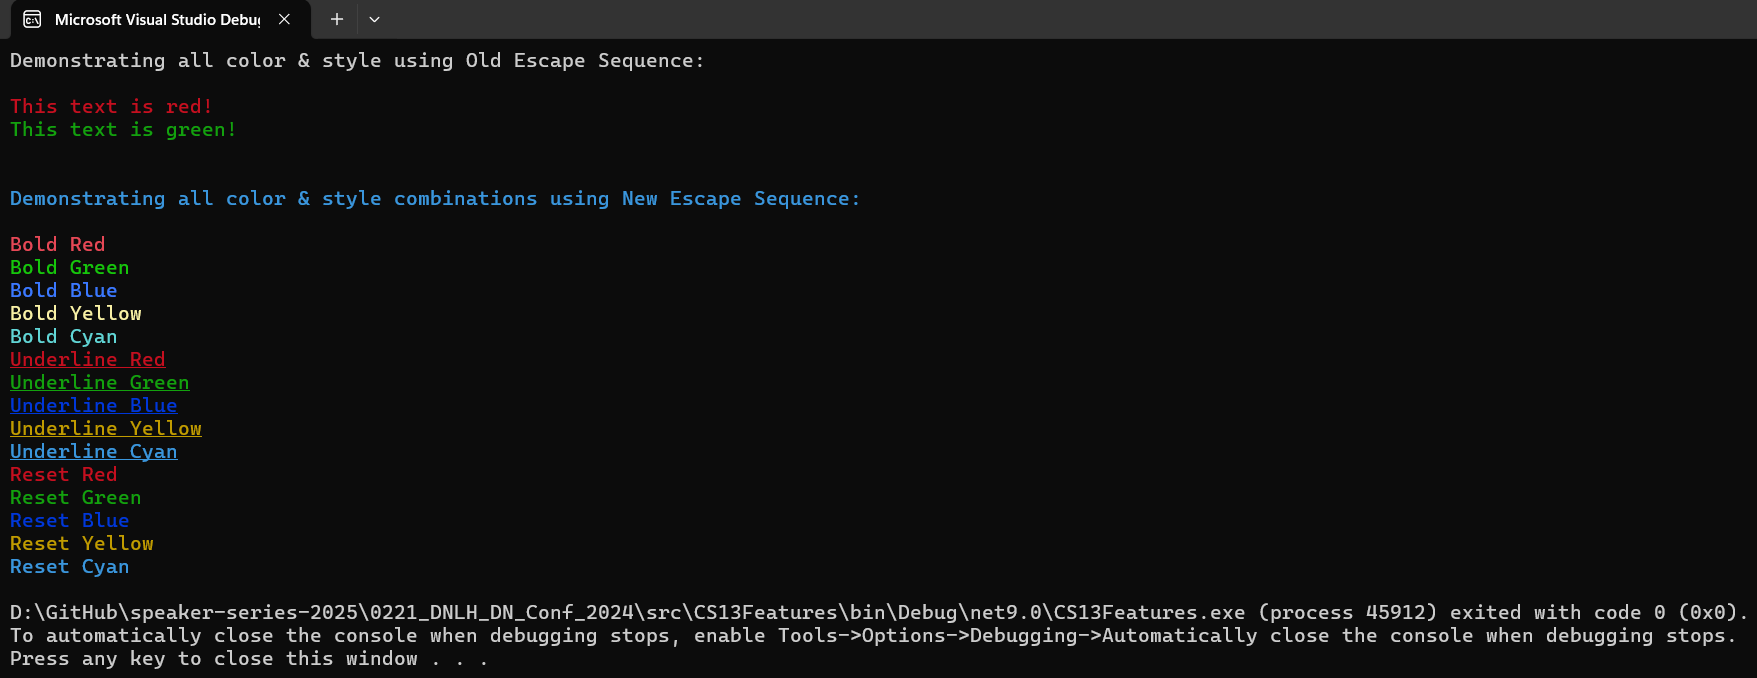
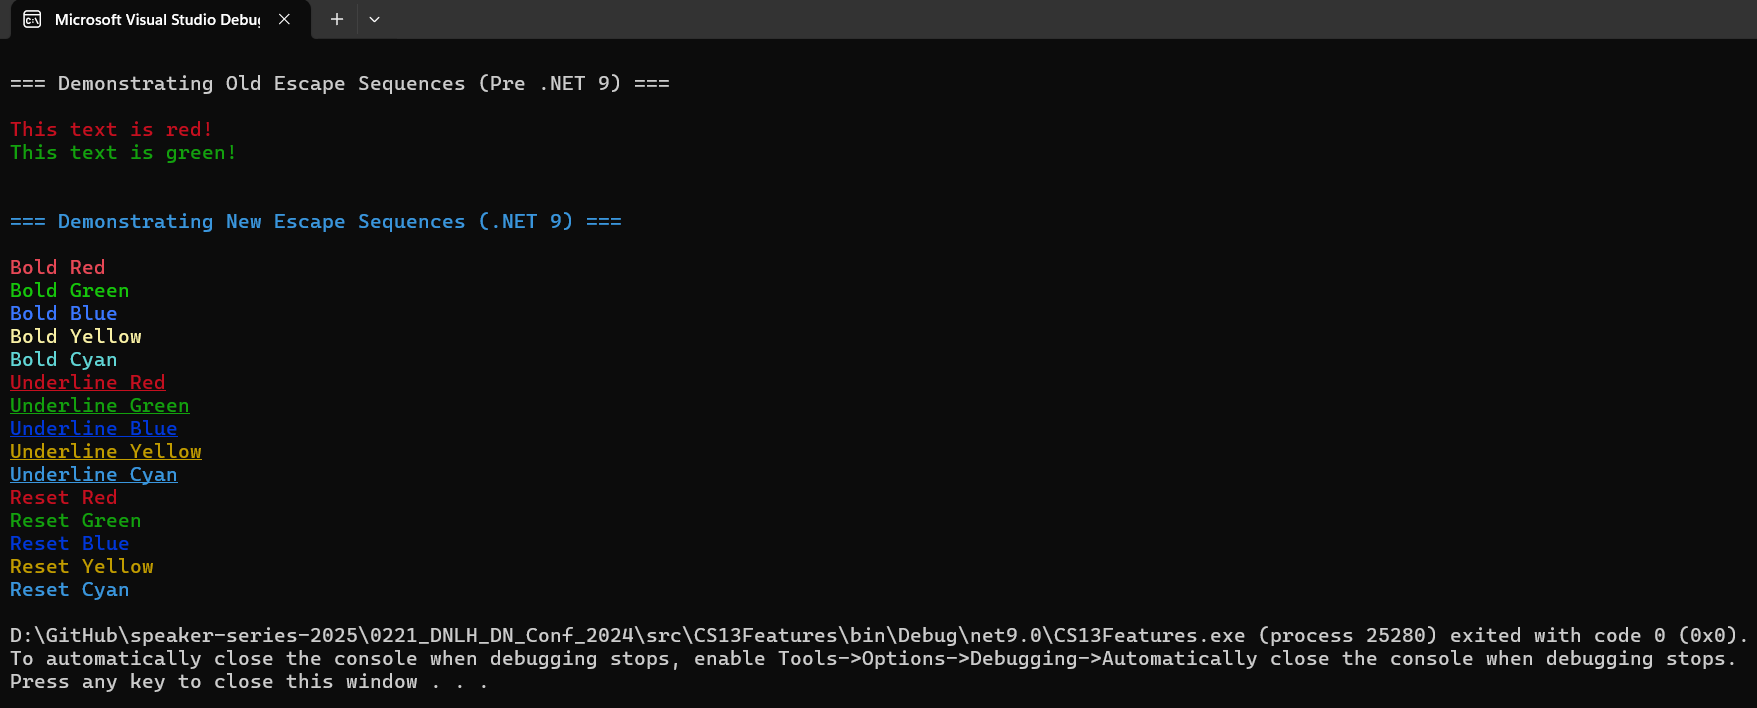
field Keyword

diff --git a/0221_DNLH_DN_Conf_2024/src/CS13Features/NewEscapeSequence/NewEscapeSequenceService.cs b/0221_DNLH_DN_Conf_2024/src/CS13Features/NewEscapeSequence/NewEscapeSequenceService.cs
@@ -2,40 +2,40 @@
 
 internal static class NewEscapeSequenceService
 {
-    private static readonly Dictionary<string, string> colors = new()
+    private static readonly Dictionary<string, string> Colors = new()
     {
-            { "Red", "31" },
-            { "Green", "32" },
-            { "Blue", "34" },
-            { "Yellow", "33" },
-            { "Cyan", "36" }
-        };
+        { "Red", "31" },
+        { "Green", "32" },
+        { "Blue", "34" },
+        { "Yellow", "33" },
+        { "Cyan", "36" }
+    };
 
-    private static readonly Dictionary<string, string> styles = new()
+    private static readonly Dictionary<string, string> Styles = new()
     {
-            { "Bold", "1" },
-            { "Underline", "4" },
-            { "Reset", "0" }
-        };
+        { "Bold", "1" },
+        { "Underline", "4" },
+        { "Reset", "0" }
+    };
 
     public static void ShowDemo()
     {
-        //Pre .NET 9
-        WriteLine("Demonstrating all color & style using Old Escape Sequence:\n");
-        string redText = "\u001b[31mThis text is red!\u001b[0m";
-        string greenText = "\u001b[32mThis text is green!\u001b[0m";
+        WriteLine("\n=== Demonstrating Old Escape Sequences (Pre .NET 9) ===\n");
 
-        WriteLine(redText);
-        WriteLine(greenText);
+        // Old Escape Sequences (Pre .NET 9)
+        string redTextOld = "\u001b[31mThis text is red!\u001b[0m";
+        string greenTextOld = "\u001b[32mThis text is green!\u001b[0m";
 
-        // .NET 9
+        WriteLine(redTextOld);
+        WriteLine(greenTextOld);
+
+        // New Escape Sequences (.NET 9)
         ForegroundColor = ConsoleColor.DarkCyan;
+        WriteLine("\n\n=== Demonstrating New Escape Sequences (.NET 9) ===\n");
 
-        WriteLine("\n\nDemonstrating all color & style combinations using New Escape Sequence:\n");
-
-        foreach (var style in styles)
+        foreach (var style in Styles)
         {
-            foreach (var color in colors)
+            foreach (var color in Colors)
             {
                 string formattedText = GetFormattedText($"{style.Key} {color.Key}", color.Value, style.Value);
                 WriteLine(formattedText);
@@ -45,7 +45,7 @@ internal static class NewEscapeSequenceService
         ResetColor();
     }
 
-    static string GetFormattedText(string text, string colorCode, string styleCode)
+    private static string GetFormattedText(string text, string colorCode, string styleCode)
     {
         return $"\e[{styleCode};{colorCode}m{text}\e[0m";
     }

diff --git a/0221_DNLH_DN_Conf_2024/src/CS13Features/FieldKeyword/FieldKeywordService.cs b/0221_DNLH_DN_Conf_2024/src/CS13Features/FieldKeyword/FieldKeywordService.cs
@@ -1,0 +1,52 @@
+namespace CS13Features.FieldKeyword;
+
+internal static class FieldKeywordService
+{
+    public static void ShowDemo()
+    {
+        ForegroundColor = ConsoleColor.Cyan;
+
+        WriteLine("\n=== Field Keyword Demo in C# 13 ===\n");
+
+        try
+        {
+            var product = new Product
+            {
+                Name = "  Widget  ",
+                Price = 19.99m
+            };
+
+            WriteLine($"Product: {product.Name}");
+            WriteLine($"Price: {product.Price:C}");
+            WriteLine($"Description: {product.Description}");
+        }
+        catch (Exception ex)
+        {
+            WriteLine($"Error creating product: {ex.Message}");
+        }
+
+        WriteLine("\n=== Testing Invalid Inputs ===\n");
+
+        var testProduct = new Product { Name = "Valid Product" };
+
+        try
+        {
+            testProduct.Name = ""; // Should throw an exception
+        }
+        catch (ArgumentException ex)
+        {
+            WriteLine($"Error: {ex.Message}");
+        }
+
+        try
+        {
+            testProduct.Price = -5; // Should throw an exception
+        }
+        catch (ArgumentException ex)
+        {
+            WriteLine($"Error: {ex.Message}");
+        }
+
+        ResetColor();
+    }
+}

diff --git a/0221_DNLH_DN_Conf_2024/src/CS13Features/FieldKeyword/Product.cs b/0221_DNLH_DN_Conf_2024/src/CS13Features/FieldKeyword/Product.cs
@@ -1,0 +1,36 @@
+namespace CS13Features.FieldKeyword;
+
+internal sealed class Product
+{
+    public required string Name
+    {
+        get => field;
+
+        set
+        {
+            if (string.IsNullOrWhiteSpace(value))
+            {
+                throw new ArgumentException("Product name cannot be empty or null.");
+            }
+
+            field = value.Trim();
+        }
+    }
+
+    public decimal Price
+    {
+        get => field;
+
+        set
+        {
+            if (value < 0)
+            {
+                throw new ArgumentException("Price cannot be negative.");
+            }
+            field = value;
+        }
+
+    } = 9.99m; // Default price
+
+    public string Description => $"{Name} - {Price:C}"; // Auto-formatted currency output
+}

diff --git a/0221_DNLH_DN_Conf_2024/src/CS13Features/Program.cs b/0221_DNLH_DN_Conf_2024/src/CS13Features/Program.cs
@@ -1,6 +1,9 @@
-using CS13Features.ParamsCollections;
+using CS13Features.FieldKeyword;
 using CS13Features.NewEscapeSequence;
+using CS13Features.ParamsCollections;
 
-//ParamsCollectionsService.ShowDemo();
+// ParamsCollectionsService.ShowDemo();
 
-NewEscapeSequenceService.ShowDemo();
+//NewEscapeSequenceService.ShowDemo();
+
+FieldKeywordService.ShowDemo();

diff --git a/0221_DNLH_DN_Conf_2024/README.md b/0221_DNLH_DN_Conf_2024/README.md
@@ -60,9 +60,16 @@
 ### New Escape Sequence
 
 > 1. Discussion and Demo
+> 1. <https://learn.microsoft.com/en-us/dotnet/csharp/whats-new/csharp-13#new-escape-sequence>
 
 ![New Escape Sequence | 100x100](./Documentation/Images/NewEscapeSequence.PNG)
 
+### field Keyword
+
+> 1. Discussion and Demo
+> 1. <https://learn.microsoft.com/en-us/dotnet/csharp/whats-new/csharp-13#the-field-keyword>
+
+![Field Keyword | 100x100](./Documentation/Images/FieldKeyword.PNG)
 
 ## X. OpenAPI support in ASP.NET Core API
 
